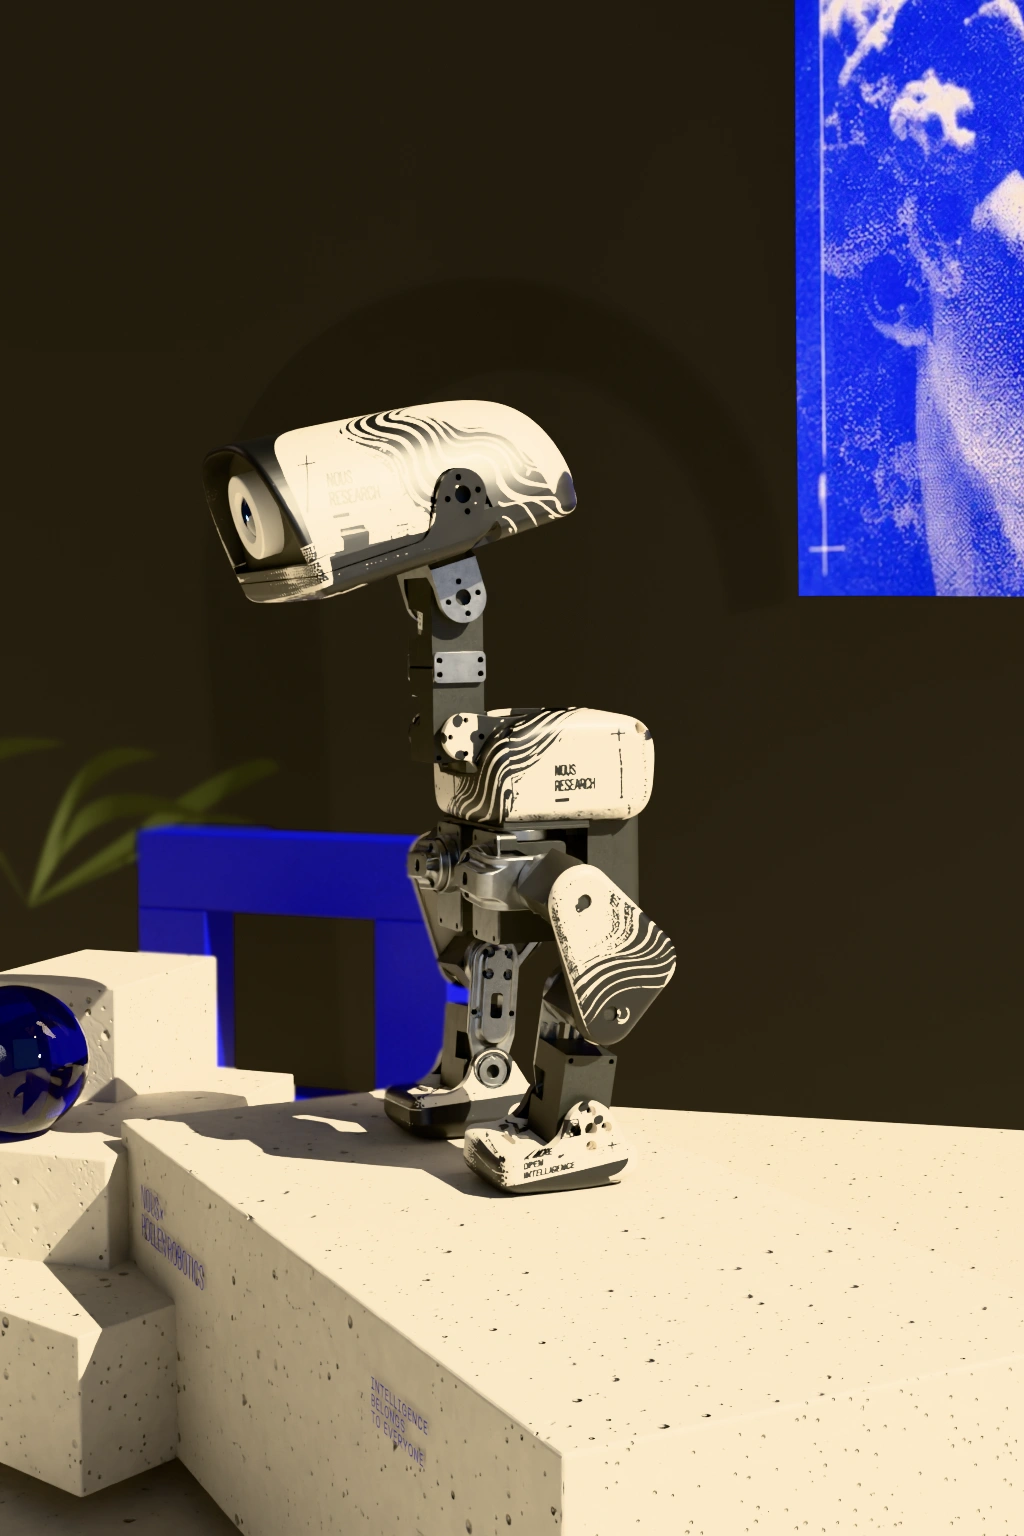
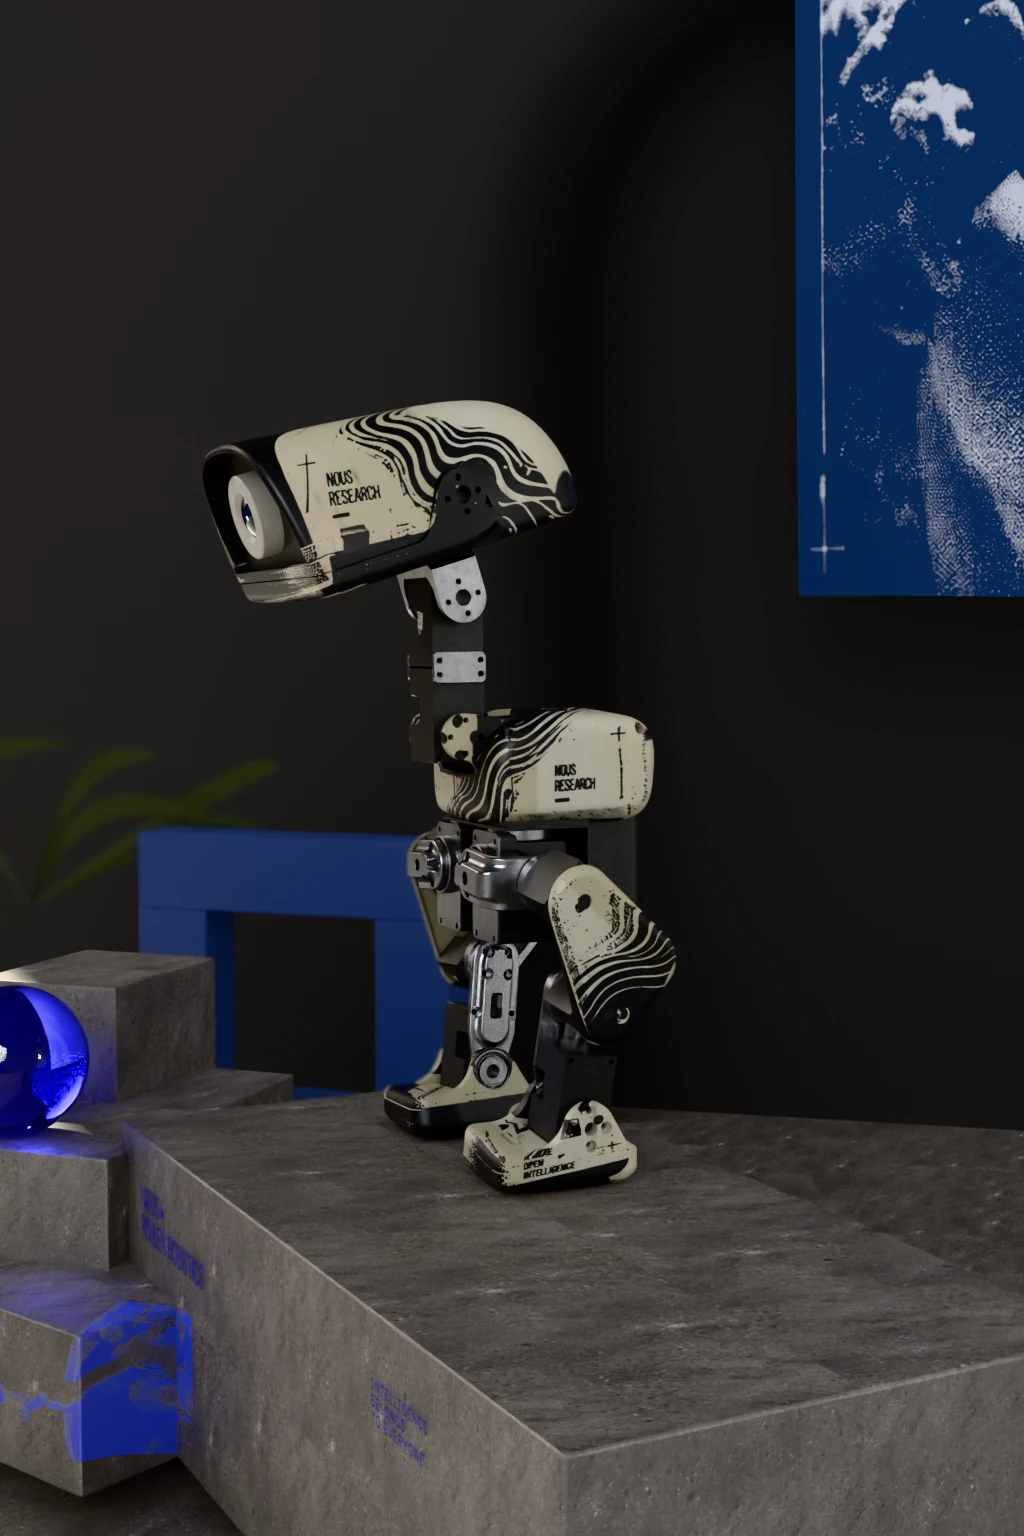
fix(day): one dark-charcoal Day scene across all 16 poses, matched to the locked reference (#41)
Day was two different sets (hero light-grey wall; poses 1-15 dark-brown room with cream
sandstone). Root cause of the light wall: day_look.py made POSTER-wall self-emissive
(0.12). Fix: emission 0, albedo 0.04, all 16 poses re-rendered from one recipe (clean
6b7eeb1 + OptiX denoise, 64 spp). Dream-loop split critics (15 regions, owner's skill):
mean 4.20 -> 4.57, lighting 1.00 -> 1.31; region error vs locked reference 150 -> 53.
Day's light text is legible again. Jump-apex poses use the duck-following camera (D15).
Tests: reference-match + one-scene guards (red on the old set); noise contract all 80 plates.
Regression: blank-frame 0/2547, theme-zoom, theme-switch, scroll-state, warm-idle, fuzz clean.

diff --git a/scripts/day-fidelity/test_day_plate_noise.py b/scripts/day-fidelity/test_day_plate_noise.py
@@ -16,8 +16,7 @@ import audit as a  # dE / Lab
 
 DAY = ROOT / "public/preview-scene/sequence/cinematic-proof-v2/day"
 BOX = (350, 400, 890, 1210)
[1 lines of base64/hex data omitted]
-PREV_HERO_GIT = "c2d84b6:public/preview-scene/sequence/cinematic-proof-v2/day/p0000000-1024.png"
+REF = "/home/kvn/Documents/Codex/2026-09-16/c/work/calibration/references/day.png"  # locked Day reference, sha256 1481b570...
 
 def luma(im):
     x = np.asarray(im.convert("RGB")).astype(np.float64)[BOX[1]:BOX[3], BOX[0]:BOX[2]]
@@ -53,15 +52,27 @@ class DayNoise(unittest.TestCase):
                 bound = max(2 * sib[len(sib) // 2], 0.01)
                 self.assertLessEqual(vals[f.name], bound, f"{theme}/{f.name} speckle {vals[f.name]:.5f} > bound {bound:.5f} (max of 2x sibling median, 0.01)")
 
-    def test_hero_only_changes_noise_not_the_authored_look(self):
-        prev_bytes = subprocess.run(["git", "show", PREV_HERO_GIT], cwd=ROOT, capture_output=True, check=True).stdout
-        self.assertEqual(hashlib.sha256(prev_bytes).hexdigest(), PREV_HERO_SHA)
-        import io
-        prev = Image.open(io.BytesIO(prev_bytes)).convert("RGB"); cur = Image.open(DAY / "p0000000-1024.png").convert("RGB")
-        self.assertEqual(prev.size, cur.size)
-        lp = lambda x: np.asarray(x.filter(ImageFilter.GaussianBlur(6)))
-        de = a.delta_e(lp(prev), lp(cur)); dl = float((a.srgb_to_lab(lp(cur))[..., 0] - a.srgb_to_lab(lp(prev))[..., 0]).mean())
-        self.assertLessEqual(de, 1.5, f"low-pass dE {de:.2f}"); self.assertLessEqual(abs(dl), 1.0, f"low-pass dL {dl:+.2f}")
+    def test_day_hero_moves_toward_the_locked_reference(self):
+        """Replaces the denoise-only guard (6ae7278): the Day scene is now deliberately changed toward the owner's locked
+        Day reference (dark charcoal room). Guard: region error vs the reference must stay at or below the measured
+        r01 level (sum 55) and far below the old light-wall hero (150). Regions avoid the reference's web typography."""
+        R = {"wall-upper": (760, 760, 1010, 900), "arch-mid": (400, 150, 560, 380), "robot-shell": (560, 700, 760, 800),
+             "plinth-top": (300, 1180, 900, 1300), "plinth-front": (430, 1365, 900, 1505), "orb": (10, 1010, 200, 1230)}
+        ref = np.asarray(Image.open(REF).convert("RGB")); cur = np.asarray(Image.open(sorted(DAY.glob("p0000000-1024.*"))[0]).convert("RGB"))
+        lab = lambda x, b: a.srgb_to_lab(x[b[1]:b[3], b[0]:b[2]]).reshape(-1, 3).mean(0)
+        total = sum(float(np.sqrt(((lab(cur, b) - lab(ref, b)) ** 2).sum())) for b in R.values())
+        self.assertLessEqual(total, 60.0, f"Day hero region error vs locked reference {total:.1f}")
+        wall = lab(cur, R["wall-upper"])[0]; self.assertLess(wall, 25.0, f"Day wall must be dark like the reference (L {wall:.1f})")
+
+    def test_day_is_one_scene_across_all_poses(self):
+        """Regression: Day p0000000 and p0080000..p1000000 were two different sets (light wall vs dark-brown/cream sandstone).
+        The backdrop luminance (upper wall, away from the robot) must agree across the hero poses."""
+        vals = []
+        for f in frames("day")[:10]:
+            x = np.asarray(Image.open(f).convert("RGB")).astype(float)[80:300, 20:260]
+            vals.append((f.name, float((x[..., 0] * .2126 + x[..., 1] * .7152 + x[..., 2] * .0722).mean())))
+        lo, hi = min(v for _, v in vals), max(v for _, v in vals)
+        self.assertLess(hi - lo, 25.0, f"Day backdrop luma varies {lo:.0f}-{hi:.0f} across poses: {vals}")
 
 if __name__ == "__main__":
     unittest.main()

diff --git a/docs/quackles-state/DECISIONS.md b/docs/quackles-state/DECISIONS.md
@@ -10,3 +10,7 @@
 - D9 (engineer): base canvas stays visible as a persistent underlay while inspecting (uncovered viewport during jumps beyond the painted buffer showed page background; 22 frames -> 0). Verified: settled parity identical, frame times unchanged.
 - D10 (2026-09-30, engineer): Day plinth fine-scale excess is render noise (64 spp, denoising OFF; --denoise A/B in the plate pipeline: fine_to_mid 2.54 -> 0.34 vs reference 0.39). A denoised/higher-spp Day re-render is the physically defensible minimal change, but it is BLOCKED until the exact invocation of the shipped Day look is recovered (four recovered recipes do not reproduce it; stone luma 50/140/140/153 vs 87). Do not re-render with a guessed look, and do not post-denoise the shipped PNG. Evidence: issue-41-evidence/day-stone-shipped-plate/FINDINGS.md.
 - D11 (OPEN, owner): a 1x horizontal swipe leaves the theme at a fractional position (e.g. 2.83 = 83% Dark blended with 17% Blue) after release; nothing snaps it. The ThemeControl thumb is continuous (left = theme*20%) so this may be an intended continuous "scrub" ("DRAG TO CHANGE SCENE COLOR"), but a resting blend of two authored plates is not authored art. Two valid experiences (snap-to-nearest on release vs free scrub); not changed. Evidence: scripts/touch-input-browser.mjs swipeAt1x.
+- D12 (2026-09-30 night, engineer; dream-loop r01 kept): Day scene = clean 6b7eeb1 recipe + POSTER-wall emission 0 (day_look.py set a 0.12 self-emissive beige wall, which is why the "dark" Day room rendered light grey) + wall albedo 0.04. All 16 Day poses re-rendered from ONE recipe (Day was two different sets). Split-critic mean 4.20 -> 4.57 (lighting 1.00 -> 1.31); region error vs locked reference 150 -> 53. The denoise-only guard (6ae7278) is replaced by a reference-match guard + one-scene-across-poses guard (red on the old set: backdrop luma 194 vs 27).
+- D13 (engineer, owner-rule application): split critics repeatedly asked to recolour the robot's printed contours blue (as painted in the posters). Owner standing rules R-048/R-049/R-050/R-051 lock the canonical robot (cream shell, black structure, BLACK zebra print; blue only as light; Night glow additive). Critic scope now carries this identity lock; such proposals are out of scope.
+- D14 (open, owner): critics C04/C06/C08/C09 consistently find the robot's polished-chrome link/strut plates should read as dark satin metal. This changes the canonical robot's finish (all themes), so it is NOT applied without owner sign-off.
+- D15 (engineer): the new motion script bakes a duck-following jump camera (#41 item 2 intent). New Day plates use it; other themes' Sep-16 plates don't yet -> Day vs neighbour theme differ only at the jump apex poses (0.40/0.45/0.50) until those themes are re-rendered.
